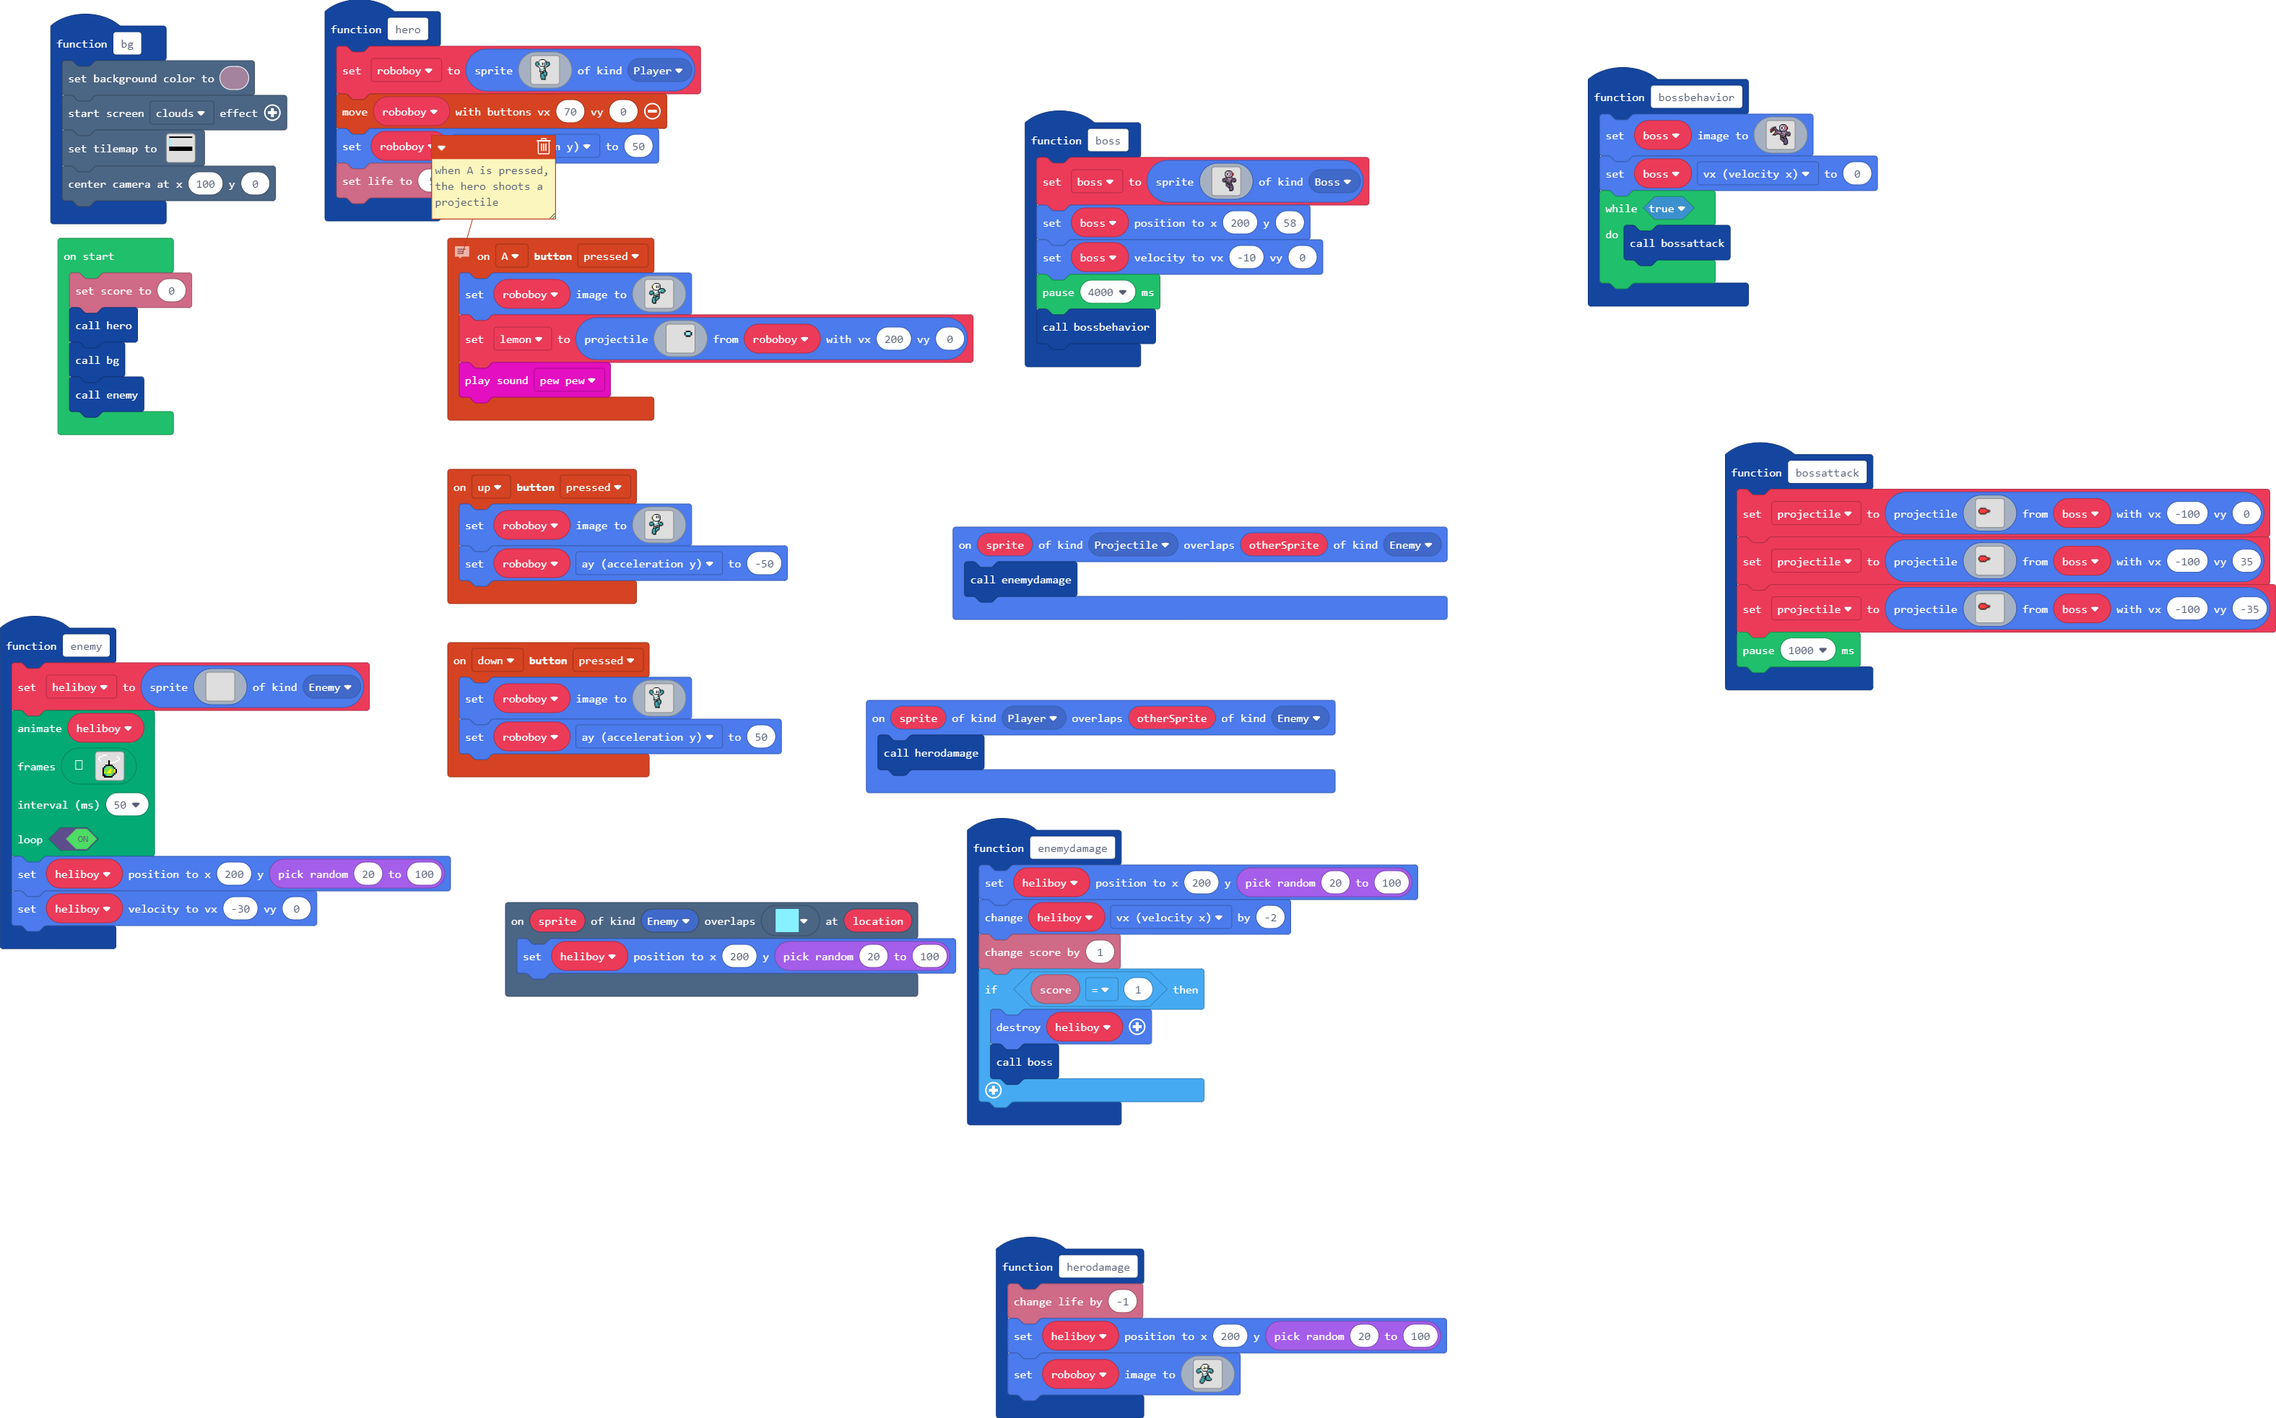
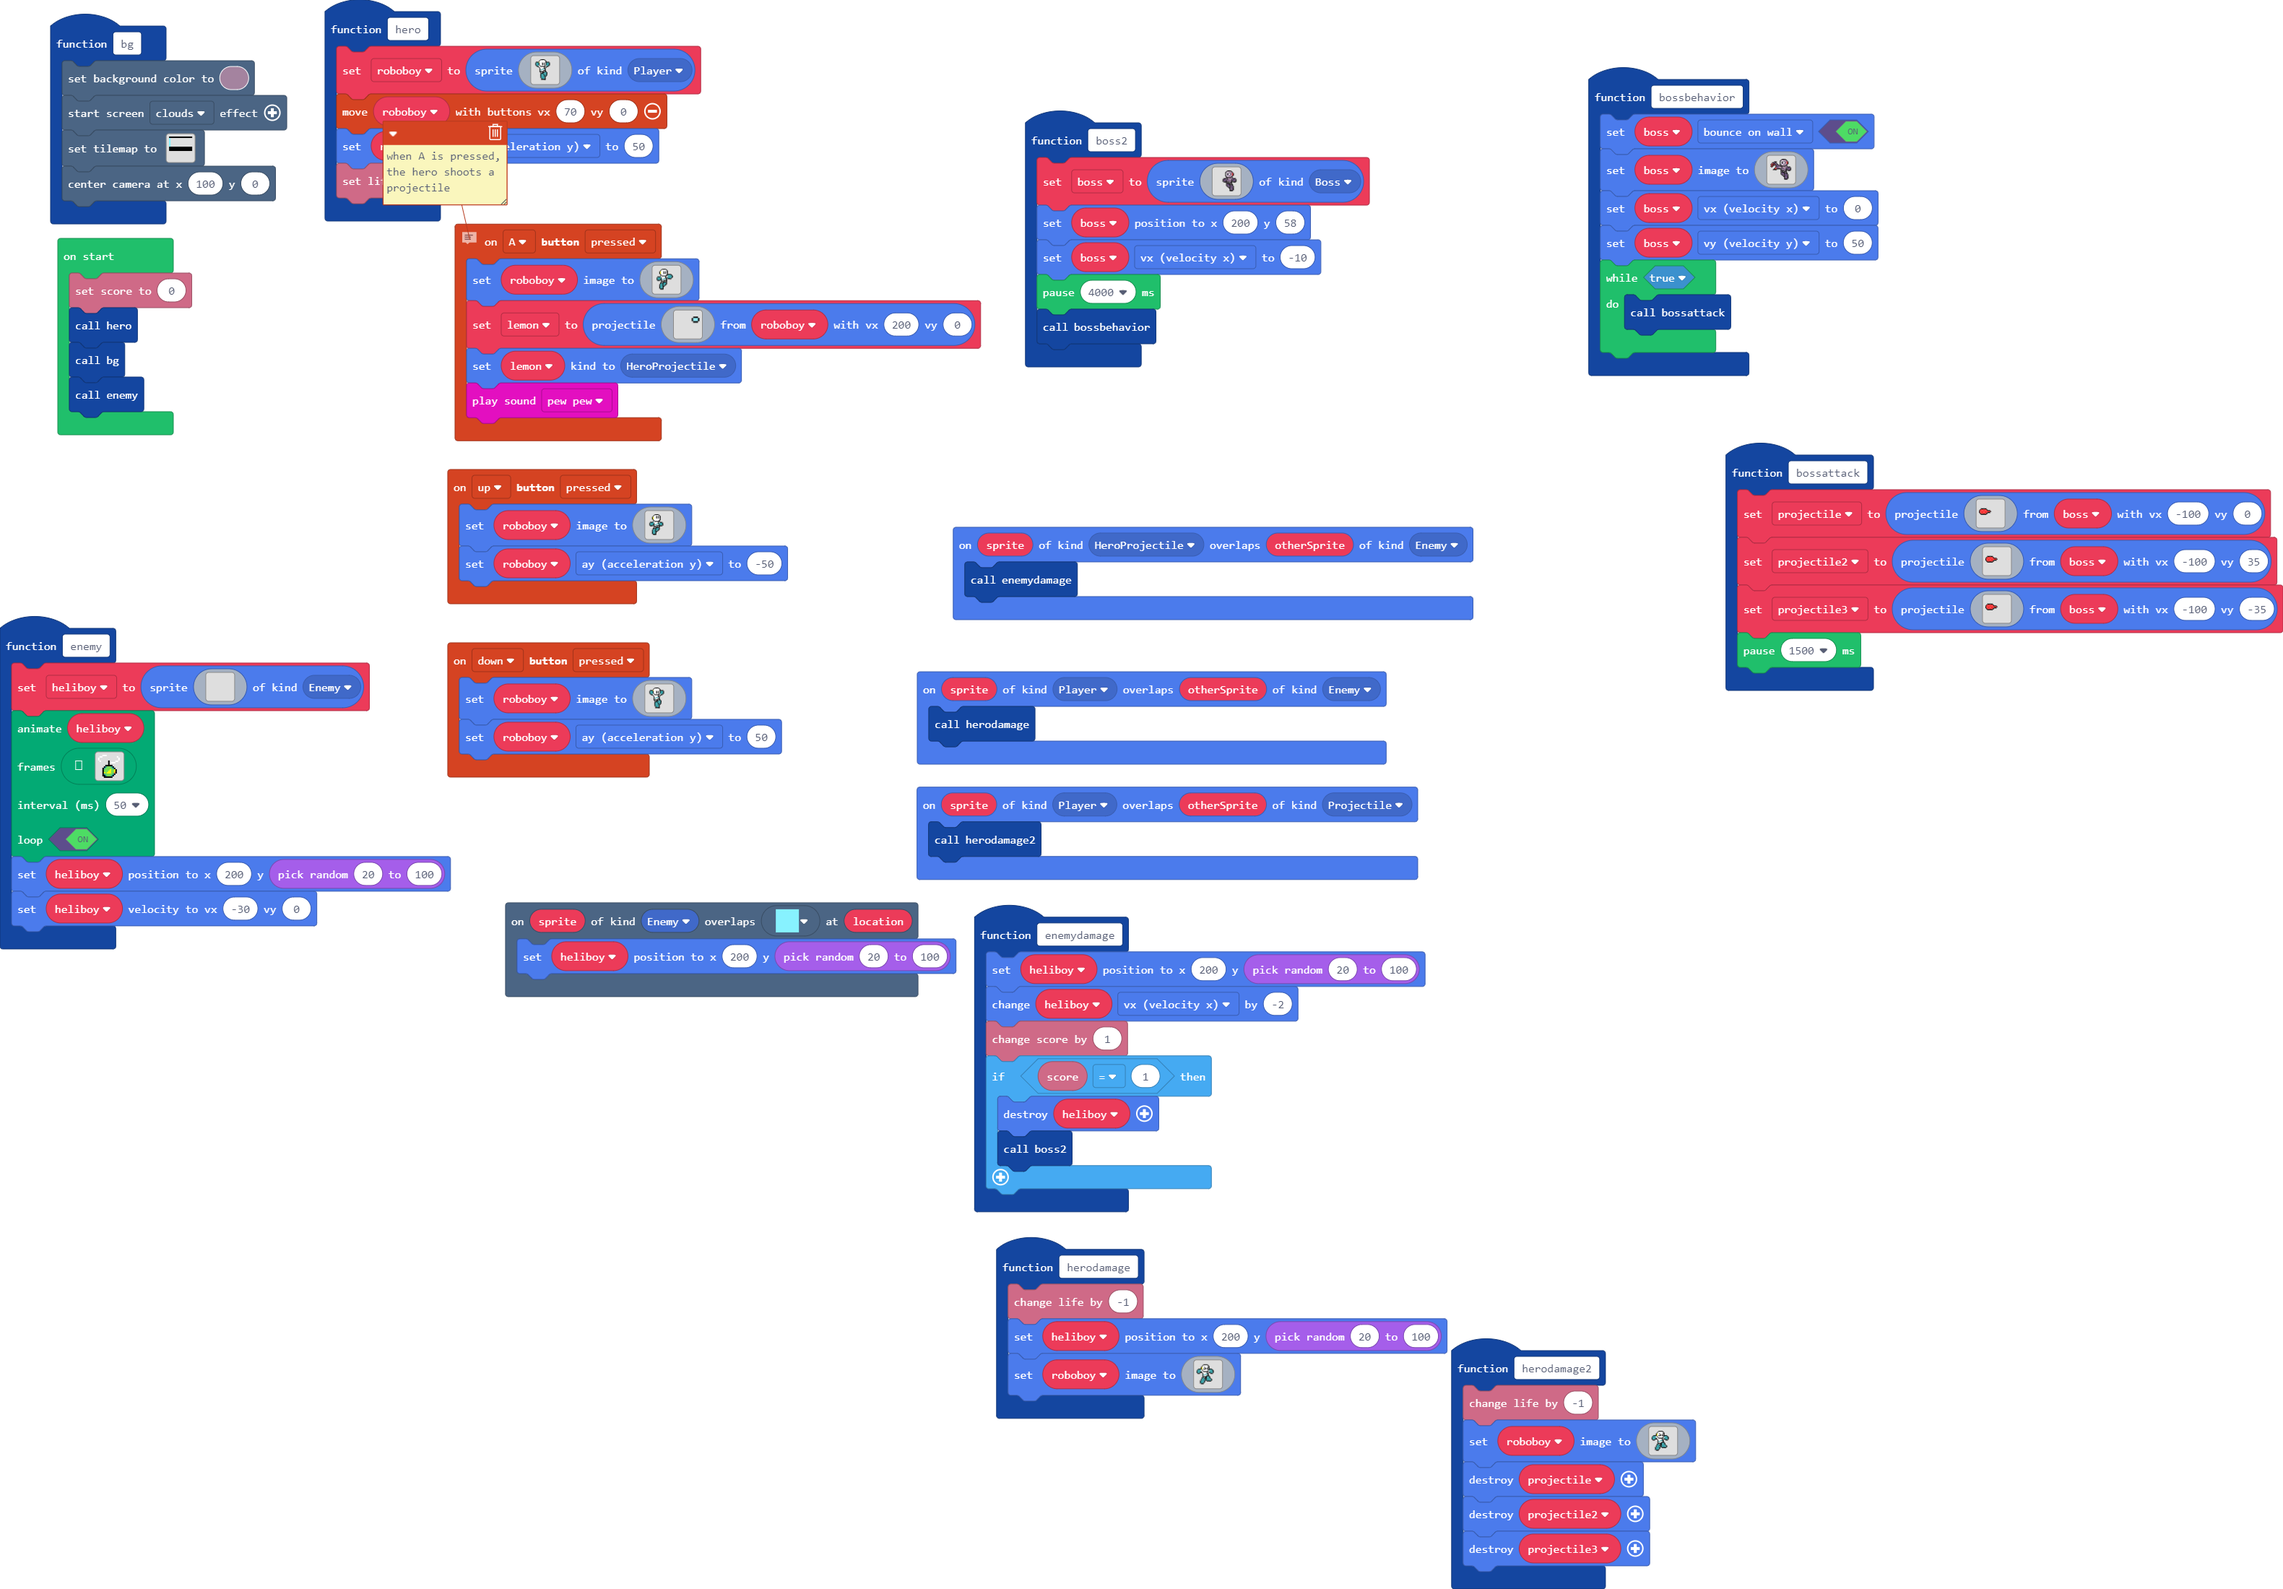
Update main.blocks, main.ts

Changed region(s): [[0.0, 0.0, 0.7462, 1.0], [0.7462, 0.2795, 1.0, 0.4969], [0.684, 0.0311, 0.8395, 0.2485]]

diff --git a/main.ts b/main.ts
@@ -5,6 +5,7 @@ enum ActionKind {
 }
 namespace SpriteKind {
     export const Boss = SpriteKind.create()
+    export const HeroProjectile = SpriteKind.create()
 }
 namespace myTiles {
     //% blockIdentity=images._tile
@@ -123,7 +124,8 @@ b b b b b b b b b b b b b b b b
 `
 }
 function bossbehavior () {
-    boss2.setImage(img`
+    boss.setFlag(SpriteFlag.BounceOnWall, true)
+    boss.setImage(img`
 . . . . . . . . . . . . . . f f f f f . . . . . . . . 
 . . . . . . . . . . . . . f b b b b b f . . . . . . . 
 . . . . . . . . . . . . f c 1 1 c b b b f . . . . . . 
@@ -149,7 +151,8 @@ function bossbehavior () {
 . . . . . . . . . . . . . . . . . f c c c f . . . . . 
 . . . . . . . . . . . . . . . . . f f f f . . . . . . 
 `)
-    boss2.vx = 0
+    boss.vx = 0
+    boss.vy = 50
     while (true) {
         bossattack()
     }
@@ -182,62 +185,37 @@ function bg () {
         ))
     scene.centerCameraAt(100, 0)
 }
-function bossattack () {
-    projectile = sprites.createProjectileFromSprite(img`
-. . . . . . . . . . . . . . . . . . . . . . . . . 
-. . . . . . . . . . . . . . . . . . . . . . . . . 
-. . . . . . . . . . . . . . . . . . . . . . . . . 
-. . f f f f f f . . . . . . . . . . . . . . . . . 
-. f 2 2 2 2 2 2 f . . . . . . . . . . . . . . . . 
-f 2 2 2 2 2 2 2 2 f f f . . . . . . . . . . . . . 
-f 2 2 2 2 2 2 2 2 2 2 2 f . . . . . . . . . . . . 
-f 2 2 2 2 2 2 2 2 f f f . . . . . . . . . . . . . 
-. f 2 2 2 2 2 2 f . . . . . . . . . . . . . . . . 
-. . f f f f f f . . . . . . . . . . . . . . . . . 
-. . . . . . . . . . . . . . . . . . . . . . . . . 
-. . . . . . . . . . . . . . . . . . . . . . . . . 
-. . . . . . . . . . . . . . . . . . . . . . . . . 
-. . . . . . . . . . . . . . . . . . . . . . . . . 
-. . . . . . . . . . . . . . . . . . . . . . . . . 
-. . . . . . . . . . . . . . . . . . . . . . . . . 
-`, boss2, -100, 0)
-    projectile = sprites.createProjectileFromSprite(img`
-. . . . . . . . . . . . . . . . . . . . . . . . . 
-. . . . . . . . . . . . . . . . . . . . . . . . . 
-. . . . . . . . . . . . . . . . . . . . . . . . . 
-. . f f f f f f . . . . . . . . . . . . . . . . . 
-. f 2 2 2 2 2 2 f . . . . . . . . . . . . . . . . 
-f 2 2 2 2 2 2 2 2 f f f . . . . . . . . . . . . . 
-f 2 2 2 2 2 2 2 2 2 2 2 f . . . . . . . . . . . . 
-f 2 2 2 2 2 2 2 2 f f f . . . . . . . . . . . . . 
-. f 2 2 2 2 2 2 f . . . . . . . . . . . . . . . . 
-. . f f f f f f . . . . . . . . . . . . . . . . . 
-. . . . . . . . . . . . . . . . . . . . . . . . . 
-. . . . . . . . . . . . . . . . . . . . . . . . . 
-. . . . . . . . . . . . . . . . . . . . . . . . . 
-. . . . . . . . . . . . . . . . . . . . . . . . . 
-. . . . . . . . . . . . . . . . . . . . . . . . . 
-. . . . . . . . . . . . . . . . . . . . . . . . . 
-`, boss2, -100, 35)
-    projectile = sprites.createProjectileFromSprite(img`
-. . . . . . . . . . . . . . . . . . . . . . . . . 
-. . . . . . . . . . . . . . . . . . . . . . . . . 
-. . . . . . . . . . . . . . . . . . . . . . . . . 
-. . f f f f f f . . . . . . . . . . . . . . . . . 
-. f 2 2 2 2 2 2 f . . . . . . . . . . . . . . . . 
-f 2 2 2 2 2 2 2 2 f f f . . . . . . . . . . . . . 
-f 2 2 2 2 2 2 2 2 2 2 2 f . . . . . . . . . . . . 
-f 2 2 2 2 2 2 2 2 f f f . . . . . . . . . . . . . 
-. f 2 2 2 2 2 2 f . . . . . . . . . . . . . . . . 
-. . f f f f f f . . . . . . . . . . . . . . . . . 
-. . . . . . . . . . . . . . . . . . . . . . . . . 
-. . . . . . . . . . . . . . . . . . . . . . . . . 
-. . . . . . . . . . . . . . . . . . . . . . . . . 
-. . . . . . . . . . . . . . . . . . . . . . . . . 
-. . . . . . . . . . . . . . . . . . . . . . . . . 
-. . . . . . . . . . . . . . . . . . . . . . . . . 
-`, boss2, -100, -35)
-    pause(1000)
+function herodamage2 () {
+    info.changeLifeBy(-1)
+    roboboy.setImage(img`
+. . . . . . . . . . . . . . . . . . . . . . . . . . . 
+. . . . . . . . f f f f f . . . . . . . . . . . . . . 
+. . . . . . . f 1 1 1 1 1 f . . . . . . . . . . . . . 
+. . . . . . f 1 1 1 1 1 1 1 f . . . . . . . . . . . . 
+. . . . . f 5 1 1 f 1 1 1 f f . . . . . . . . . . . . 
+. . . . . f 5 1 1 1 f 1 f 1 f . . . . . . . . . . . . 
+. . f f f f 5 1 f f f 1 f f f f f f . . . . . . . . . 
+. f 6 6 6 1 f 1 1 1 1 1 1 1 f 6 6 6 f . . . . . . . . 
+f 6 6 6 6 1 1 f 1 1 1 1 1 f 1 6 6 6 6 f . . . . . . . 
+f 6 6 6 6 f 1 1 f f f f f f 1 6 6 6 6 f . . . . . . . 
+f 6 6 6 f f f 1 1 1 1 1 f 1 f f 6 6 6 f . . . . . . . 
+. f f f . . . f 1 1 1 1 f f . . f f f . . . . . . . . 
+. . . . . . . f 1 1 6 6 6 f . . . . . . . . . . . . . 
+. . . . . . . f 6 6 1 1 1 f . . . . . . . . . . . . . 
+. . . . . . . f 1 1 1 f f f f . . . . . . . . . . . . 
+. . . . . . . f f f f f 6 6 6 f . . . . . . . . . . . 
+. . . . . . f 6 f 1 f f 6 6 6 f . . . . . . . . . . . 
+. . . . . . f 6 6 f f f 6 6 6 6 f . . . . . . . . . . 
+. . . . . f 6 6 6 6 f f 6 6 6 6 6 f . . . . . . . . . 
+. . . . . f 6 6 6 6 f f 6 6 6 6 6 f . . . . . . . . . 
+. . . . f 6 6 6 6 f . . f f f f f . . . . . . . . . . 
+. . . . f 6 6 6 6 f . . . . . . . . . . . . . . . . . 
+. . . . f 6 6 6 f . . . . . . . . . . . . . . . . . . 
+. . . . . f f f . . . . . . . . . . . . . . . . . . . 
+`)
+    projectile.destroy()
+    projectile2.destroy()
+    projectile3.destroy()
 }
 function hero () {
     roboboy = sprites.create(img`
@@ -299,8 +277,8 @@ controller.down.onEvent(ControllerButtonEvent.Pressed, function () {
 `)
     roboboy.ay = 50
 })
-function boss () {
-    boss2 = sprites.create(img`
+function boss2 () {
+    boss = sprites.create(img`
 . . . . . . . . . . . . . . f f f f f . . . . . . . . 
 . . . . . . . . . . . . . f b b b b b f . . . . . . . 
 . . . . . . . . . . . . f c 1 1 c b b b f . . . . . . 
@@ -326,10 +304,67 @@ function boss () {
 . . . . . . . . . . . . . . . . . f c c c f . . . . . 
 . . . . . . . . . . . . . . . . . f f f f . . . . . . 
 `, SpriteKind.Boss)
-    boss2.setPosition(200, 58)
-    boss2.setVelocity(-10, 0)
+    boss.setPosition(200, 58)
+    boss.vx = -10
     pause(4000)
     bossbehavior()
+}
+function bossattack () {
+    projectile = sprites.createProjectileFromSprite(img`
+. . . . . . . . . . . . . . . . . . . . . . . . . 
+. . . . . . . . . . . . . . . . . . . . . . . . . 
+. . . . . . . . . . . . . . . . . . . . . . . . . 
+. . f f f f f f . . . . . . . . . . . . . . . . . 
+. f 2 2 2 2 2 2 f . . . . . . . . . . . . . . . . 
+f 2 2 2 2 2 2 2 2 f f f . . . . . . . . . . . . . 
+f 2 2 2 2 2 2 2 2 2 2 2 f . . . . . . . . . . . . 
+f 2 2 2 2 2 2 2 2 f f f . . . . . . . . . . . . . 
+. f 2 2 2 2 2 2 f . . . . . . . . . . . . . . . . 
+. . f f f f f f . . . . . . . . . . . . . . . . . 
+. . . . . . . . . . . . . . . . . . . . . . . . . 
+. . . . . . . . . . . . . . . . . . . . . . . . . 
+. . . . . . . . . . . . . . . . . . . . . . . . . 
+. . . . . . . . . . . . . . . . . . . . . . . . . 
+. . . . . . . . . . . . . . . . . . . . . . . . . 
+. . . . . . . . . . . . . . . . . . . . . . . . . 
+`, boss, -100, 0)
+    projectile2 = sprites.createProjectileFromSprite(img`
+. . . . . . . . . . . . . . . . . . . . . . . . . 
+. . . . . . . . . . . . . . . . . . . . . . . . . 
+. . . . . . . . . . . . . . . . . . . . . . . . . 
+. . f f f f f f . . . . . . . . . . . . . . . . . 
+. f 2 2 2 2 2 2 f . . . . . . . . . . . . . . . . 
+f 2 2 2 2 2 2 2 2 f f f . . . . . . . . . . . . . 
+f 2 2 2 2 2 2 2 2 2 2 2 f . . . . . . . . . . . . 
+f 2 2 2 2 2 2 2 2 f f f . . . . . . . . . . . . . 
+. f 2 2 2 2 2 2 f . . . . . . . . . . . . . . . . 
+. . f f f f f f . . . . . . . . . . . . . . . . . 
+. . . . . . . . . . . . . . . . . . . . . . . . . 
+. . . . . . . . . . . . . . . . . . . . . . . . . 
+. . . . . . . . . . . . . . . . . . . . . . . . . 
+. . . . . . . . . . . . . . . . . . . . . . . . . 
+. . . . . . . . . . . . . . . . . . . . . . . . . 
+. . . . . . . . . . . . . . . . . . . . . . . . . 
+`, boss, -100, 35)
+    projectile3 = sprites.createProjectileFromSprite(img`
+. . . . . . . . . . . . . . . . . . . . . . . . . 
+. . . . . . . . . . . . . . . . . . . . . . . . . 
+. . . . . . . . . . . . . . . . . . . . . . . . . 
+. . f f f f f f . . . . . . . . . . . . . . . . . 
+. f 2 2 2 2 2 2 f . . . . . . . . . . . . . . . . 
+f 2 2 2 2 2 2 2 2 f f f . . . . . . . . . . . . . 
+f 2 2 2 2 2 2 2 2 2 2 2 f . . . . . . . . . . . . 
+f 2 2 2 2 2 2 2 2 f f f . . . . . . . . . . . . . 
+. f 2 2 2 2 2 2 f . . . . . . . . . . . . . . . . 
+. . f f f f f f . . . . . . . . . . . . . . . . . 
+. . . . . . . . . . . . . . . . . . . . . . . . . 
+. . . . . . . . . . . . . . . . . . . . . . . . . 
+. . . . . . . . . . . . . . . . . . . . . . . . . 
+. . . . . . . . . . . . . . . . . . . . . . . . . 
+. . . . . . . . . . . . . . . . . . . . . . . . . 
+. . . . . . . . . . . . . . . . . . . . . . . . . 
+`, boss, -100, -35)
+    pause(1500)
 }
 function herodamage () {
     info.changeLifeBy(-1)
@@ -361,8 +396,8 @@ f 6 6 6 f f f 1 1 1 1 1 f 1 f f 6 6 6 f . . . . . . .
 . . . . . f f f . . . . . . . . . . . . . . . . . . . 
 `)
 }
-sprites.onOverlap(SpriteKind.Projectile, SpriteKind.Enemy, function (sprite, otherSprite) {
-    enemydamage()
+sprites.onOverlap(SpriteKind.Player, SpriteKind.Projectile, function (sprite, otherSprite) {
+    herodamage2()
 })
 // when A is pressed, the hero shoots a projectile
 controller.A.onEvent(ControllerButtonEvent.Pressed, function () {
@@ -404,6 +439,7 @@ controller.A.onEvent(ControllerButtonEvent.Pressed, function () {
 . . . . . . . . . . . . . . . 
 . . . . . . . . . . . . . . . 
 `, roboboy, 200, 0)
+    lemon.setKind(SpriteKind.HeroProjectile)
     music.pewPew.play()
 })
 function enemy () {
@@ -497,7 +533,7 @@ function enemydamage () {
     info.changeScoreBy(1)
     if (info.score() == 1) {
         heliboy.destroy()
-        boss()
+        boss2()
     }
 }
 controller.up.onEvent(ControllerButtonEvent.Pressed, function () {
@@ -529,11 +565,16 @@ controller.up.onEvent(ControllerButtonEvent.Pressed, function () {
 `)
     roboboy.ay = -50
 })
+sprites.onOverlap(SpriteKind.HeroProjectile, SpriteKind.Enemy, function (sprite, otherSprite) {
+    enemydamage()
+})
 let lemon: Sprite = null
 let heliboy: Sprite = null
-let roboboy: Sprite = null
+let projectile3: Sprite = null
+let projectile2: Sprite = null
 let projectile: Sprite = null
-let boss2: Sprite = null
+let roboboy: Sprite = null
+let boss: Sprite = null
 info.setScore(0)
 hero()
 bg()
